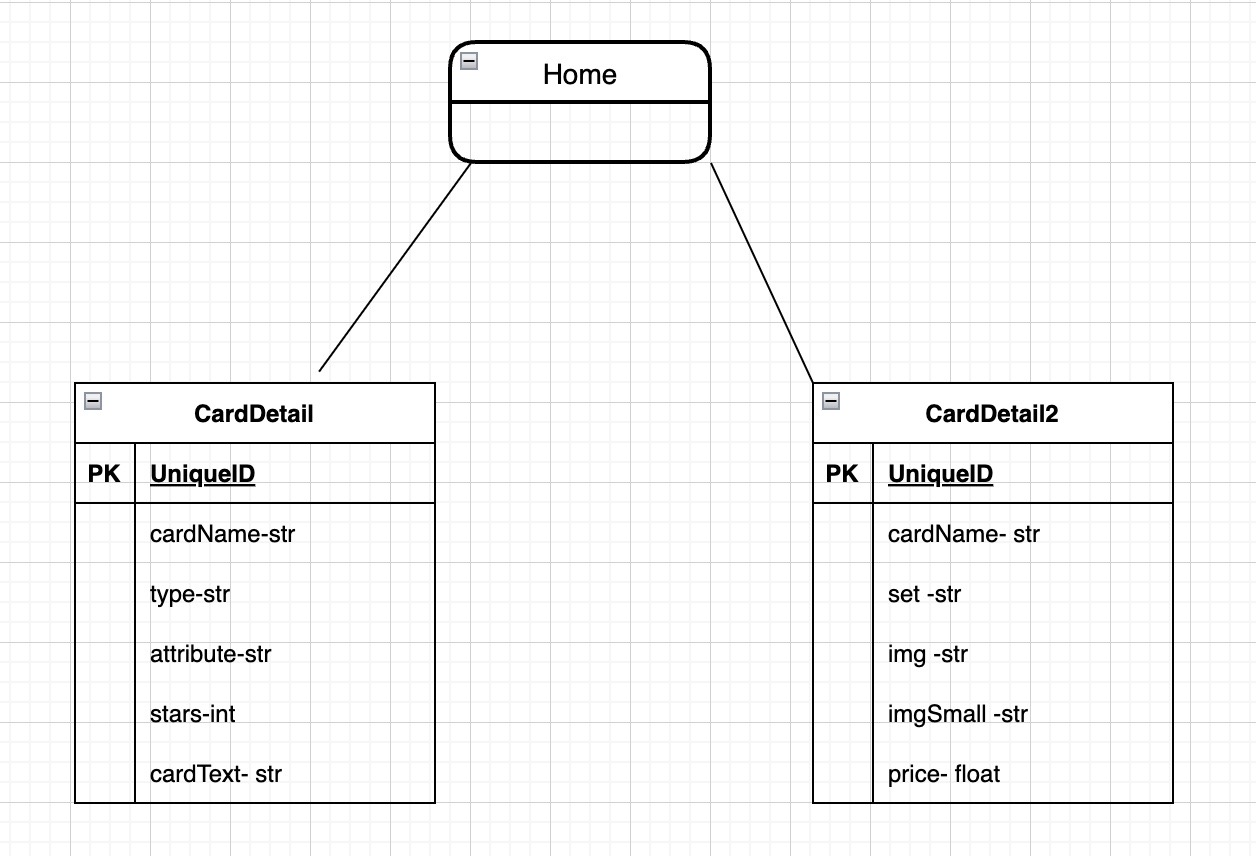
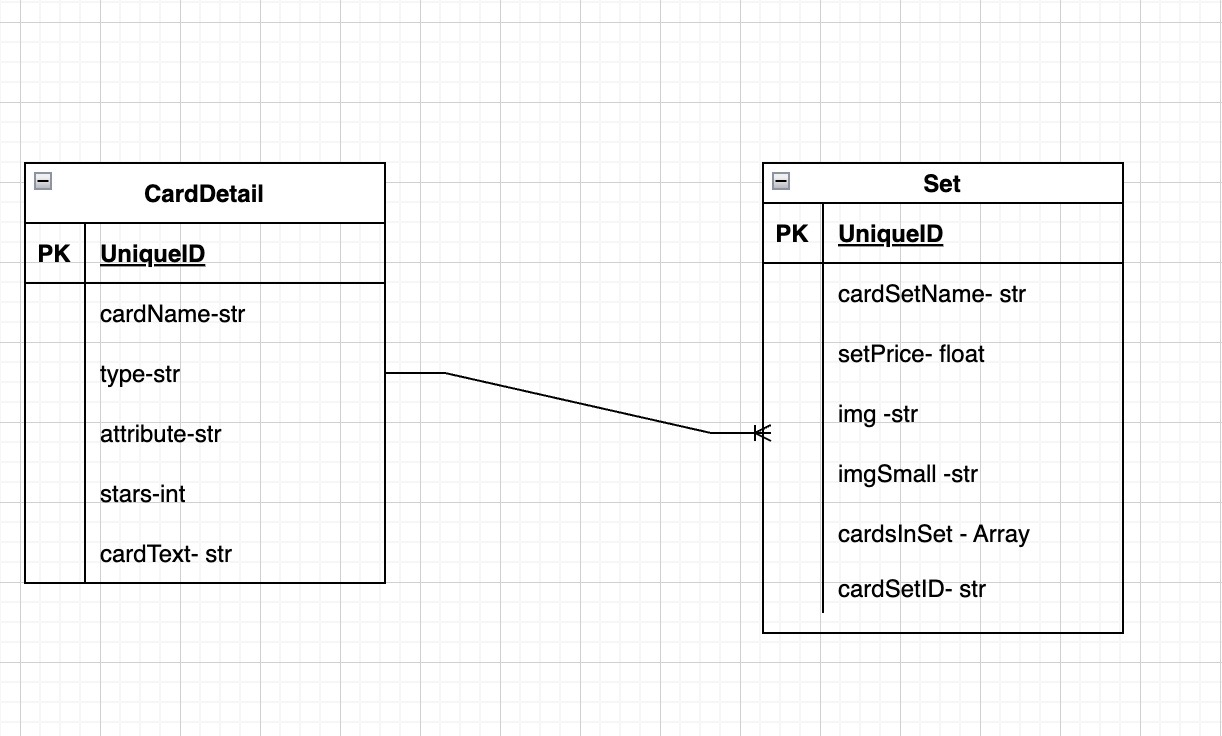
fixed mistakes

diff --git a/Controllers/CardController.js b/Controllers/CardController.js
@@ -1,7 +1,7 @@
 const getCards=(req,res)=>{
     res.send([
-        {cardName:'Man Eater Bug', type: 'insect', attribute: 'earth', stars: 2, cardText: 'FLIP: Target 1 monster on the field; destroy it.'}, {cardName:'Blue Eyes White Dragon', type: 'dragon', attribute: 'light', stars: 8, cardText: 'This legendary dragon is a powerful engine of destruction. Virtually invincible, very few have faced this awesome creature and lived to tell the tale.'},
-        {cardName:'Blood Mefist', type: 'fiend', attribute: 'dark', stars: 8, cardText: '1 Tuner + 1 or more non-Tuner monsters Once per turn, during your opponent`s Standby Phase: You can inflict 300 damage to your opponent for each card your opponent controls. Each time your opponent Sets a Spell or Trap Card(s): Inflict 300 damage to your opponent.'}
+        {cardName:'Man Eater Bug', type: 'insect', attribute: 'earth', stars: 2, cardText: 'FLIP: Target 1 monster on the field; destroy it.',set: 'dark beginning 1', img: 'placeholder link', price: .48, cardSetNumber: 'db109', imgSmall:'placeholder2'}, {cardName:'Blue Eyes White Dragon', type: 'dragon', attribute: 'light', stars: 8, cardText: 'This legendary dragon is a powerful engine of destruction. Virtually invincible, very few have faced this awesome creature and lived to tell the tale.', set: '2016 Megatin', img: 'placeholder link', price: .67, cardSetNumber: 'MT09', imgSmall:'placeholder2'},
+        {cardName:'Blood Mefist', type: 'fiend', attribute: 'dark', stars: 8, cardText: '1 Tuner + 1 or more non-Tuner monsters Once per turn, during your opponent`s Standby Phase: You can inflict 300 damage to your opponent for each card your opponent controls. Each time your opponent Sets a Spell or Trap Card(s): Inflict 300 damage to your opponent.', set: 'Yu-Gi-Oh! Championship Series 2011 Prize Card', img: 'placeholder link', price: 999.99, cardSetNumber: 'YCSW-EN004', imgSmall:'placeholder2'}
     ]
        )
 }

diff --git a/Controllers/CardController2.js b/Controllers/CardController2.js
@@ -1,7 +1,6 @@
 const getCards2=(req,res)=>{
     res.send([
-        {cardName:'Man Eater Bug', set: 'dark beginning 1', img: 'placeholder link', price: .48, cardSetNumber: 'db109', imgSmall:'placeholder2'}, {cardName:'Blue Eyes White Dragon', set: '2016 Megatin', img: 'placeholder link', price: .67, cardSetNumber: 'MT09', imgSmall:'placeholder2'},
-        {cardName:'Blood Mefist', set: 'Yu-Gi-Oh! Championship Series 2011 Prize Card', img: 'placeholder link', price: 999.99, cardSetNumber: 'YCSW-EN004', imgSmall:'placeholder2'}
+        {cardSetName:'Dark Beginning 1', setPrice: '5.00', img: 'placeholder link', cardsInSet: ['Man-eater Bug','Magician of Faith','Witch of the Black Forest'], cardSetID: 'DB1', imgSmall:'placeholder2 link'}, {cardSetName:'Dark Beginning 2', setPrice: '5.00', img: 'placeholder link', cardsInSet: ['Obnoxious Celtic Guardian','Sangan','Dark Magician '], cardSetID: 'DB2', imgSmall:'placeholder2 link'}, {cardSetName:'Legend of the Blue Eyes White Dragon', setPrice: '5.00', img: 'placeholder link', cardsInSet: ['Man-eater Bug','Exodia the Forbidden One','Spark'], cardSetID: 'LOB', imgSmall:'placeholder2'}, 
     ]
        )
 }

diff --git a/index.js b/index.js
@@ -19,8 +19,8 @@ app.get('/', (req, res) => {
     res.send('home page');
   })
 
-  app.get('/carddata', cardController.getCards)
-  app.get('/carddata2', cardController2.getCards2)
+  app.get('/carddetail', cardController.getCards)
+  app.get('/set', cardController2.getCards2)
 
 
 
